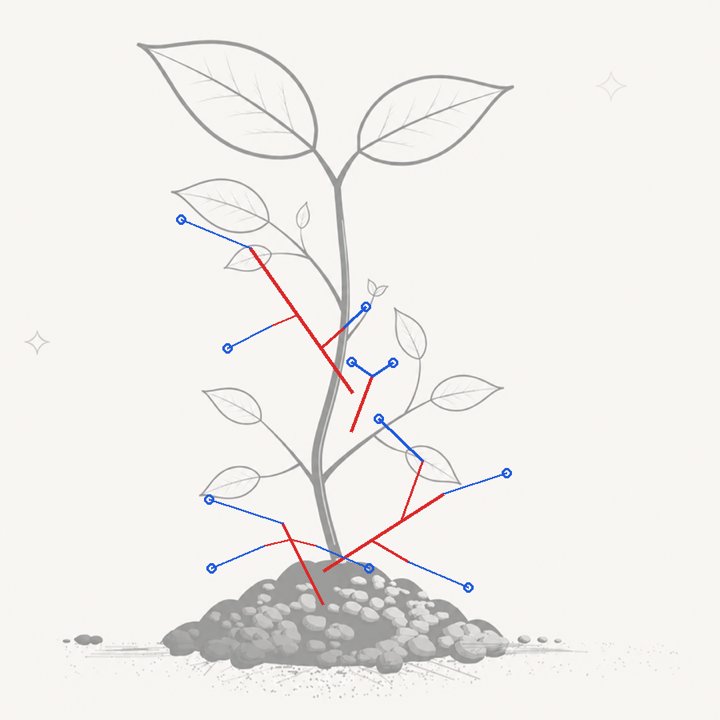
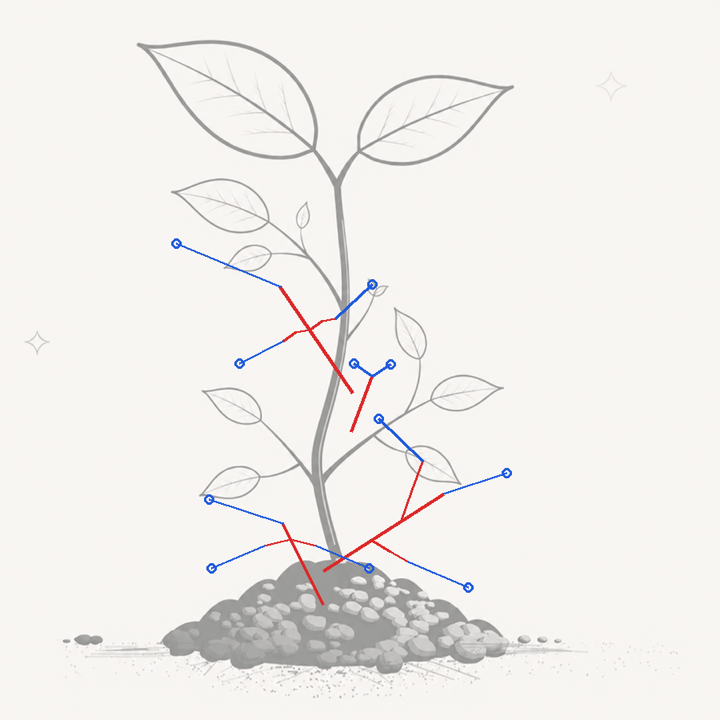
Reshape L2, open R2 out, and let a petiole curve
L2: shortened to 0.7125, (-0.1185, 0.156) to (-0.0844, 0.1111). That factor
is what halves the terminal leaf's distance from the pair below it — the
leaf sits at the tip, so bringing it closer to the branch point means
bringing the tip in. The terminal grows half again, 0.290 to 0.435. The two
flanking leaves now leave the backbone at one point, 0.5965 of the
shortened rachis, which is 0.425 of the old one: where their stalks used to
meet it on average. Bow deepened to 0.20 for a clear concave-up arc.

R2: opened three degrees off the stem, 18.3 to 21.3, reach (0.034, 0.072)
to (0.0374, 0.0700). Both leaves down from 0.130 to 0.115.

Leaflet.bow is new. A sub-petiole was a straight run from branch point to
blade, so a pair meant to curl toward the stalk they hang off had no way to
say it. The two flanking leaves take opposite signs, and that is not a
flourish: bow pushes to the left of the direction a stalk *travels*, and
these two travel opposite ways, so the same sign would curve them the same
way round rather than symmetrically.

Which is also a bug fixed. Shoot.bow's comment claimed positive meant
downward. It does not — it means left of travel, so a branch running
up-left sags below its chord while one running up-right rises above it on
the same number. Applying L1's sign to a right-hand branch would have
curved it backwards, and the comment would have been the reason. The two
implementations are now one helper rather than a copy.
[…]

Changed region(s): [[0.3056, 0.3361, 0.55, 0.5194], [0.2444, 0.3056, 0.3056, 0.3667]]

diff --git a/Written/Views/Tree/SeedlingArt.swift b/Written/Views/Tree/SeedlingArt.swift
@@ -374,6 +374,16 @@ enum SeedlingArt {
         /// is upward. Zero for the terminal leaflet, which the rachis reaches
         /// by itself.
         let stalkRun: CGSize
+        /// How far this leaflet's own stalk bows off its chord, on the same
+        /// terms as `Shoot.bow` — a fraction of the stalk's length, positive to
+        /// the left of the way it runs.
+        ///
+        /// Zero for every petiole drawn before this: a sub-petiole was a
+        /// straight run from the branch point to the blade, and a pair of them
+        /// meant to curl toward the stalk they hang off had no way to say so.
+        /// Two leaves either side of one point want *opposite* signs to curve
+        /// the same way relative to it.
+        var bow: CGFloat = 0
         /// The stage this leaflet first opens at. `nil` means it is there from
         /// the moment its shoot is, which is true of every leaflet drawn before
         /// a fifth stage existed.
@@ -397,6 +407,7 @@ enum SeedlingArt {
                     width: stalkRun.width + (other.stalkRun.width - stalkRun.width) * t,
                     height: stalkRun.height + (other.stalkRun.height - stalkRun.height) * t
                 ),
+                bow: bow + (other.bow - bow) * t,
                 opensAt: opensAt,
                 closesAt: closesAt
             )
@@ -419,8 +430,13 @@ enum SeedlingArt {
         /// swings as one piece rather than the blades twisting on fixed stalks.
         let turn: Double
         /// How far the rachis bows off the straight line from stem to tip, as a
-        /// fraction of that line's length. Positive bows *below* the run — the
-        /// outside of the turn for a shoot reaching upward.
+        /// fraction of that line's length.
+        ///
+        /// Positive bows to the **left of the direction of travel**, which is
+        /// not the same as downward and was written down as though it were. A
+        /// branch running up-left sags *below* its chord on a positive bow; one
+        /// running up-right rises *above* it on the same number. Two branches
+        /// meant to curve the same way as the eye sees it need opposite signs.
         ///
         /// Zero by default, which is every shoot drawn before this: the rachis
         /// was a quadratic whose only curvature came from the angle its tip had
@@ -599,7 +615,8 @@ enum SeedlingArt {
             // stem to leaf tip against 0.21 and 0.32 for the two beside it. And
             // near-upright — +25.8° off vertical, where the others splay past
             // 50° — so the rachis is mostly rise and only a little reach.
-            reach: CGSize(width: 0.034, height: 0.072),
+            // Opened out three degrees from the stem, 18.3 to 21.3.
+            reach: CGSize(width: 0.0374, height: 0.0700),
             turn: 0,
             leaflets: [
                 // Two tiny leaves, not one. This is the newest growth and the
@@ -720,23 +737,37 @@ enum SeedlingArt {
             // puts it at 0.718 of the canopy's rather than 0.598 — closing about
             // a third of the gap to the fork.
             attachment: 0.84,
-            // Half again as long, (-0.079, 0.104) to (-0.1185, 0.156). The
-            // leaflets keep their `along` fractions, so the whole branch scales
-            // rather than only the stretch past a branch point — "the branch
-            // should be longer" rather than "the upper branch", which is what
-            // L1 and R1 were asked for.
-            //
-            // Read as x1.5 and not as a 150% increase, unlike every other figure
-            // in this sequence. At x2.5 the rachis ran clear past the left
-            // cotyledon's tip as a long bare stroke, which is not a longer
-            // branch so much as a different plant.
-            reach: CGSize(width: -0.1185, height: 0.156),
+            // Shortened to 0.7125, (-0.1185, 0.156) to (-0.0844, 0.1111).
+            // That factor is what halves the terminal leaf's distance from the
+            // pair below it: the leaf sits at the tip, so bringing it closer to
+            // the branch point means bringing the tip in.
+            reach: CGSize(width: -0.0844, height: 0.1111),
             turn: 0,
-            // Bowed rather than straight. The reference's is a curve, and until
-            // now nothing in the model could say so: a rachis was a quadratic
-            // whose only bend came from the angle its tip had to arrive at.
-            bow: 0.12,
-            leaflets: shoots[2].leaflets
+            // A clear concave-up arc. This branch runs up-*left*, and a positive
+            // bow pushes left of the direction of travel, which for it is below
+            // the chord — so the sag, and the opening upward, come from a
+            // positive number here. The same number on a right-hand branch would
+            // arch it the other way.
+            bow: 0.20,
+            leaflets: [
+                // The furthest leaf, half again as large: 0.290 to 0.435.
+                Leaflet(mirrored: false, axis: -46, scale: 0.435, along: 1, stalkRun: .zero),
+                // The flanking pair, both leaving the backbone at one point.
+                // 0.5965 of the shortened rachis is 0.425 of the old one, where
+                // the two stalks used to meet it on average — 0.310 and 0.540.
+                //
+                // Opposite bows so both petioles curl *toward* the backbone
+                // rather than both the same way round: bow is relative to the
+                // direction a stalk runs, and these two run opposite ways.
+                Leaflet(mirrored: false, axis: -92, scale: 0.19, along: 0.5965,
+                        stalkRun: CGSize(width: -0.030, height: 0.013),
+                        bow: -0.22, opensAt: .canopy),
+                Leaflet(mirrored: false, axis: 4, scale: 0.065, along: 0.58,
+                        stalkRun: CGSize(width: 0.005, height: -0.040), closesAt: .canopy),
+                Leaflet(mirrored: true, axis: 26, scale: 0.19, along: 0.5965,
+                        stalkRun: CGSize(width: 0.030, height: -0.013),
+                        bow: 0.22, opensAt: .canopy)
+            ]
         ),
         // R2 — the newest growth, on the right.
         Shoot(
@@ -758,8 +789,8 @@ enum SeedlingArt {
                 // the same point is what says "just opened"; the previous
                 // arrangement hung one halfway down the stalk, which reads as an
                 // older branch that has started shedding.
-                Leaflet(mirrored: true, axis: 34, scale: 0.13, along: 1, stalkRun: .zero),
-                Leaflet(mirrored: false, axis: -34, scale: 0.13, along: 1,
+                Leaflet(mirrored: true, axis: 34, scale: 0.115, along: 1, stalkRun: .zero),
+                Leaflet(mirrored: false, axis: -34, scale: 0.115, along: 1,
                         stalkRun: CGSize(width: -0.001, height: -0.001))
             ]
         )
@@ -890,18 +921,7 @@ enum SeedlingArt {
         // Done here rather than by moving the tip: the tip is where the terminal
         // leaf hangs and where every `along` is measured from, so bending the
         // stalk must not move it.
-        if shoot.bow != 0 {
-            // Perpendicular to the chord, in units of the canvas's height so the
-            // offset is the same distance whichever way the stalk points.
-            let dx = (stalk.tip.x - stalk.root.x) * aspectRatio
-            let dy = stalk.tip.y - stalk.root.y
-            let length = hypot(dx, dy)
-            if length > 0 {
-                let push = shoot.bow * length
-                stalk.control.x += (dy / length) * push / aspectRatio
-                stalk.control.y += (-dx / length) * push
-            }
-        }
+        bowed(&stalk, by: shoot.bow)
         return stalk
     }
 
@@ -913,7 +933,25 @@ enum SeedlingArt {
         let grown = shootGrowth(shoot, extended: extended)
         let run = turned(leaflet.stalkRun, by: shoot.turn)
         let tip = CGPoint(x: branch.x + run.width * grown, y: branch.y + run.height * grown)
-        return stalk(from: branch, to: tip, arrivingAt: leafletTilt(leaflet, of: shoot, extended: extended))
+        var stalk = stalk(from: branch, to: tip, arrivingAt: leafletTilt(leaflet, of: shoot, extended: extended))
+        bowed(&stalk, by: leaflet.bow)
+        return stalk
+    }
+
+    /// Pushes a stalk's control point sideways, bending it without moving
+    /// either end. The tip is where a blade hangs and where `along` is measured
+    /// from, so a curve must not be bought by moving it.
+    private static func bowed(_ stalk: inout Stalk, by bow: CGFloat) {
+        guard bow != 0 else { return }
+        // In units of the canvas's height, so the same number bends the same
+        // distance whichever way the stalk points.
+        let dx = (stalk.tip.x - stalk.root.x) * aspectRatio
+        let dy = stalk.tip.y - stalk.root.y
+        let length = hypot(dx, dy)
+        guard length > 0 else { return }
+        let push = bow * length
+        stalk.control.x += (dy / length) * push / aspectRatio
+        stalk.control.y += (-dx / length) * push
     }
 
     /// Where a leaflet's blade starts: the end of its sub-petiole, or the

diff --git a/tools/branch_preview.py b/tools/branch_preview.py
@@ -75,9 +75,10 @@ def parse_shoots(marker: str, end: str) -> list[dict]:
             # at this stage; skipping it here matches SeedlingArt.isOpen.
             if "closesAt: .canopy" in tail:
                 continue
+            lbow = re.search(r"bow:\s*(-?[\d.]+)", tail)
             leaflets.append(dict(
                 mirrored=mirrored == "true", axis=float(axis), scale=float(scale),
-                along=float(along),
+                along=float(along), bow=float(lbow.group(1)) if lbow else 0.0,
                 stalk=(float(sx) if sx else 0.0, float(sy) if sy else 0.0),
             ))
         if reach is None:
@@ -193,6 +194,10 @@ def geometry(shoot, extended: float = STAGE):
         branch = (root[0] + (tip[0] - root[0]) * a, root[1] + (tip[1] - root[1]) * a)
         srun = turned(leaf["stalk"], shoot["turn"])
         lbase = (branch[0] + srun[0] * grown, branch[1] + srun[1] * grown)
+        # Where the petiole's curve bulges, so a bowed stalk is visibly bowed
+        # here too. Without this the preview draws every petiole straight and
+        # cannot show the one thing being changed.
+        bmid = midpoint_bowed(branch, lbase, leaf.get("bow", 0.0))
         # Blade reach along its own axis, the same figures leafletTip uses.
         box = (0.230, 0.312)
         side = 1 if leaf["mirrored"] else -1
@@ -203,8 +208,25 @@ def geometry(shoot, extended: float = STAGE):
         x, y = rx, ry * tall
         ltip = (lbase[0] + x * math.cos(ang) - y * math.sin(ang),
                 lbase[1] + (x * math.sin(ang) + y * math.cos(ang)) / tall)
-        out["leaflets"].append(dict(branch=branch, base=lbase, tip=ltip, scale=scale))
+        out["leaflets"].append(dict(branch=branch, base=lbase, tip=ltip,
+                                    scale=scale, bend=bmid))
     return out
+
+
+def midpoint_bowed(root, tip, bow):
+    """Halfway along a bowed stalk — the same push `bowed` applies in Swift."""
+    if bow == 0:
+        return ((root[0] + tip[0]) / 2, (root[1] + tip[1]) / 2)
+    dx = (tip[0] - root[0]) * ASPECT
+    dy = tip[1] - root[1]
+    length = math.hypot(dx, dy)
+    if length == 0:
+        return root
+    push = bow * length
+    cx = (root[0] + tip[0]) / 2 + (dy / length) * push / ASPECT
+    cy = (root[1] + tip[1]) / 2 + (-dx / length) * push
+    # A quadratic at t=0.5 sits halfway between its chord's midpoint and control.
+    return ((root[0] + tip[0]) / 4 + cx / 2, (root[1] + tip[1]) / 4 + cy / 2)
 
 
 # ---------------------------------------------------------------------- draw
@@ -234,7 +256,8 @@ def main() -> None:
         g = geometry(shoot)
         d.line([to_px(g["root"]), to_px(g["tip"])], fill=(220, 40, 40), width=4)
         for leaf in g["leaflets"]:
-            d.line([to_px(leaf["branch"]), to_px(leaf["base"])], fill=(220, 40, 40), width=3)
+            d.line([to_px(leaf["branch"]), to_px(leaf["bend"]), to_px(leaf["base"])],
+                   fill=(220, 40, 40), width=3, joint="curve")
             d.line([to_px(leaf["base"]), to_px(leaf["tip"])], fill=(30, 90, 220), width=3)
             x, y = to_px(leaf["tip"])
             d.ellipse([x - 6, y - 6, x + 6, y + 6], outline=(30, 90, 220), width=3)
